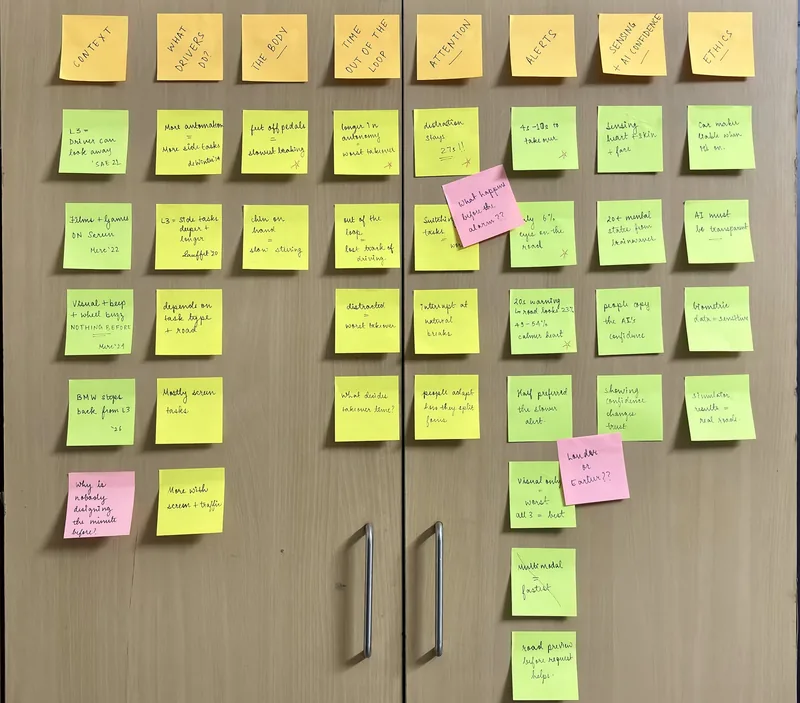
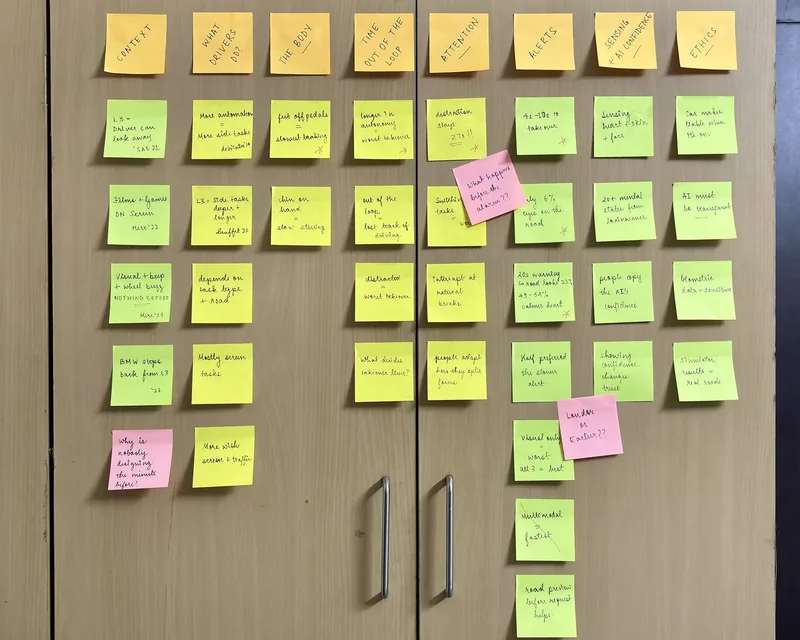
v2: uncropped 5:4 sticky note photos at equal size, hover magnifier on the full wall
Claude-Session: https://claude.ai/code/session_01RbJu4ENjvQVX4t9txAJ5Am

diff --git a/my-work/project-1-v2/index.html b/my-work/project-1-v2/index.html
@@ -629,7 +629,17 @@
 .v2-photos { display: grid; grid-template-columns: 1fr 1fr; gap: 16px; margin: 24px 0 0; align-items: start; }
 .v2-photos a { display: block; border-radius: 12px; overflow: hidden; border: 1px solid #E5E7EB; background: #fff; cursor: zoom-in; }
 .v2-photos img { display: block; width: 100%; height: auto; transition: transform .6s cubic-bezier(.22,1,.36,1); }
-.v2-photos a:hover img { transform: scale(1.02); }
+.v2-photos a { aspect-ratio: 5 / 4; }
+.v2-photos img { height: 100%; object-fit: cover; }
+.v2-photos a:not(.v2-zoom):hover img { transform: scale(1.02); }
+/* hover magnifier on the full wall */
+.v2-zoom { position: relative; }
+.v2-lens { position: absolute; z-index: 2; width: 190px; height: 190px; border-radius: 50%; pointer-events: none;
+  border: 3px solid #fff; box-shadow: 0 10px 30px rgba(24,25,31,.35), 0 0 0 1px rgba(24,25,31,.15);
+  background-repeat: no-repeat; background-color: #d9cdb8; opacity: 0; transform: scale(.8); transition: opacity .2s ease, transform .2s ease; }
+.v2-zoom.is-zooming { cursor: none; }
+.v2-zoom.is-zooming .v2-lens { opacity: 1; transform: none; }
+@media (hover: none) { .v2-lens { display: none; } }
 @media (max-width: 900px) { .v2-photos { grid-template-columns: 1fr; } }
 .v2-todo { background: rgba(255,143,113,.22); border-radius: 4px; padding: 1px 6px; font-weight: 600; }
 
@@ -849,7 +859,7 @@
                   <h3>Reading 38 papers and sources</h3>
                   <p class="cs-body">Human factors, automotive HCI and cognitive psychology, sorted by what each told me about the driver.</p>
                   <div class="v2-photos">
-                    <a href="../../assets/images/project-1/v2-litmap-wide.webp" target="_blank" rel="noopener"><img src="../../assets/images/project-1/v2-litmap-wide.webp" srcset="../../assets/images/project-1/v2-litmap-wide-s.webp 800w, ../../assets/images/project-1/v2-litmap-wide.webp 1600w" sizes="(max-width: 900px) 100vw, 540px" loading="lazy" alt="Literature map on sticky notes: eight orange theme headers, findings in yellow and green below each, starred key findings and pink question notes."></a>
+                    <a class="v2-zoom" data-zoom="../../assets/images/project-1/v2-litmap-wide-xl.webp" href="../../assets/images/project-1/v2-litmap-wide-xl.webp" target="_blank" rel="noopener"><span class="v2-lens" aria-hidden="true"></span><img src="../../assets/images/project-1/v2-litmap-wide.webp" srcset="../../assets/images/project-1/v2-litmap-wide-s.webp 800w, ../../assets/images/project-1/v2-litmap-wide.webp 1600w" sizes="(max-width: 900px) 100vw, 540px" loading="lazy" alt="Literature map on sticky notes: eight orange theme headers, findings in yellow and green below each, starred key findings and pink question notes."></a>
                     <a href="../../assets/images/project-1/v2-litmap-close.webp" target="_blank" rel="noopener"><img src="../../assets/images/project-1/v2-litmap-close.webp" srcset="../../assets/images/project-1/v2-litmap-close-s.webp 800w, ../../assets/images/project-1/v2-litmap-close.webp 1600w" sizes="(max-width: 900px) 100vw, 540px" loading="lazy" alt="Close up of the starred findings: feet off pedals means slowest braking, distraction stays 27 seconds, only 6% eyes on the road, and a 20 second warning raised road looks from 23% to 49 to 54%, next to a pink note asking what happens before the alarm."></a>
                   </div>
                 </div>
@@ -1312,6 +1322,28 @@
               });
             });
             update();
+          })();
+        </script>
+
+        <script>
+          /* Hover magnifier: a round lens follows the cursor over the sticky note wall. */
+          (function () {
+            var box = document.querySelector('.v2-zoom');
+            if (!box || !window.matchMedia('(hover: hover)').matches) return;
+            var lens = box.querySelector('.v2-lens'), img = box.querySelector('img'), Z = 3;
+            var big = new Image(); big.src = box.getAttribute('data-zoom');
+            lens.style.backgroundImage = 'url(' + box.getAttribute('data-zoom') + ')';
+            function move(e) {
+              var r = img.getBoundingClientRect(), x = e.clientX - r.left, y = e.clientY - r.top;
+              if (x < 0 || y < 0 || x > r.width || y > r.height) { box.classList.remove('is-zooming'); return; }
+              box.classList.add('is-zooming');
+              var L = lens.offsetWidth / 2;
+              lens.style.left = (x - L) + 'px'; lens.style.top = (y - L) + 'px';
+              lens.style.backgroundSize = (r.width * Z) + 'px ' + (r.height * Z) + 'px';
+              lens.style.backgroundPosition = (L - x * Z) + 'px ' + (L - y * Z) + 'px';
+            }
+            box.addEventListener('mousemove', move);
+            box.addEventListener('mouseleave', function () { box.classList.remove('is-zooming'); });
           })();
         </script>
         <!-- Section navigation: small dot rail on the left, wide screens only -->
